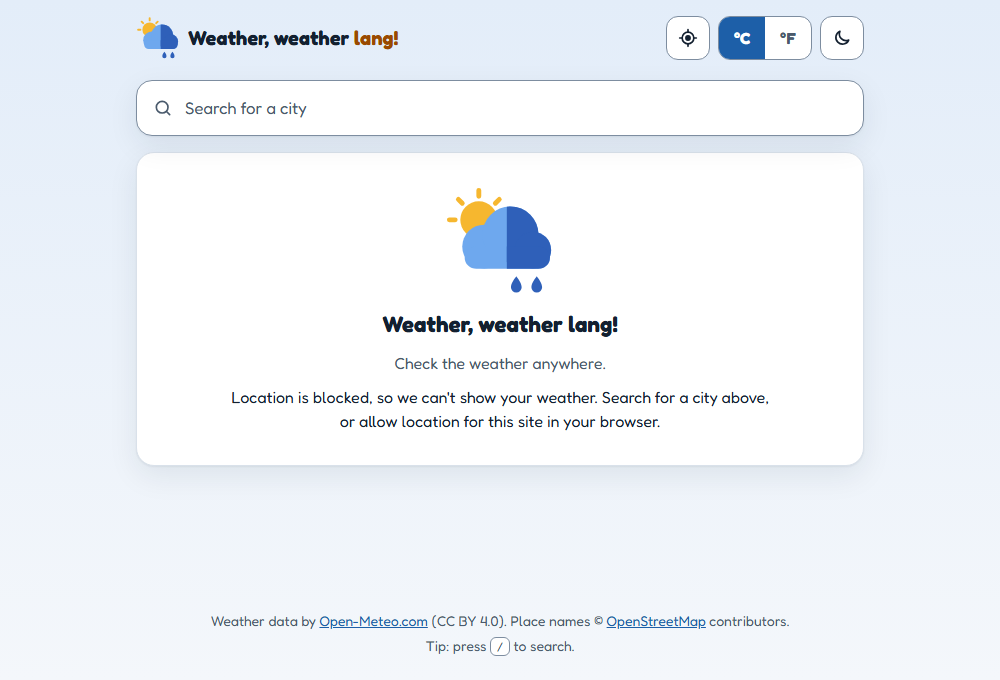
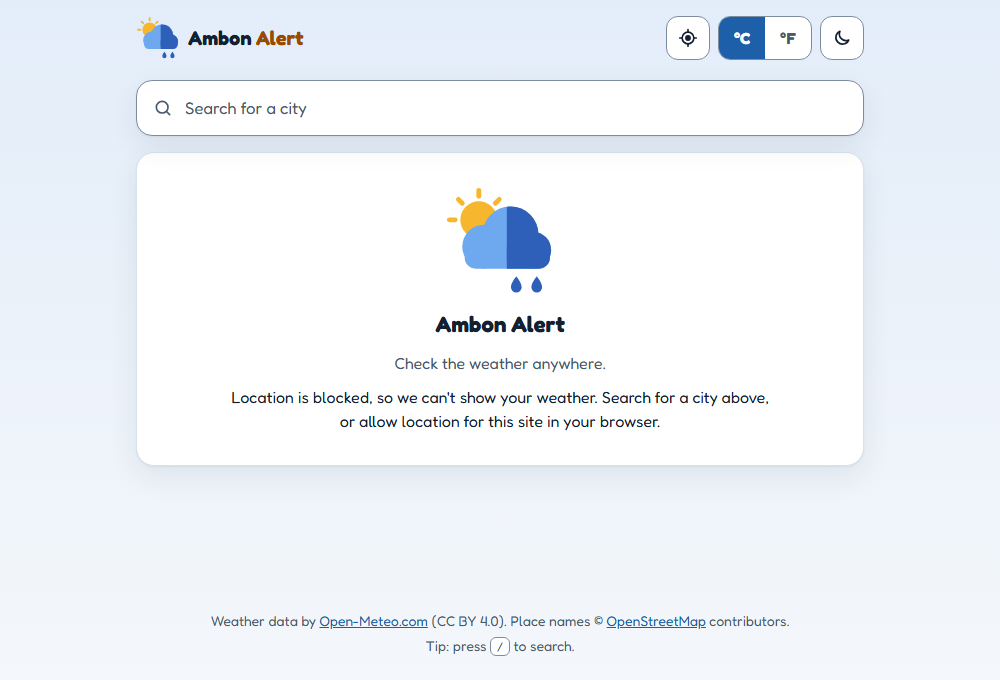
Rename the app to "Ambon Alert"
- New name in the header, page titles, app.js, the manifest (name and
  short_name) and the docs; "Alert" uses the sun-orange highlight
- The name fits on one line, so phones no longer split it in two
- Logo original renamed to docs/brand/ambon-alert-logo.png
- Keep the place's clock time ("12:07 AM") on one line on phones
- Tests and screenshots updated

Changed region(s): [[0.186, 0.0309, 0.403, 0.0926], [0.372, 0.4632, 0.62, 0.4941]]

diff --git a/weather/static/style.css b/weather/static/style.css
@@ -1,4 +1,4 @@
-/* "Weather, weather lang!" styles. The font is Fredoka (loaded in base.html).
+/* "Ambon Alert" styles. The font is Fredoka (loaded in base.html).
    Colours live in variables on :root. The dark theme swaps the variables:
    it follows the system setting, unless the visitor picked a theme with the
    toggle (saved as data-theme on <html>).
@@ -20,7 +20,7 @@
   --focus: #d97706;
   --error: #b42318;
   --star: #b45309;
-  --highlight: #9a4a00;       /* the sun's orange, dark enough for text: "lang!" in the name */
+  --highlight: #9a4a00;       /* the sun's orange, dark enough for text: "Alert" in the name */
   --shimmer: rgb(255 255 255 / 70%);
   --shadow: 0 1px 2px rgb(19 32 48 / 6%), 0 10px 30px rgb(19 32 48 / 8%);
   --radius: 18px;
@@ -205,6 +205,7 @@ a { color: var(--accent); }
   text-decoration: none;
 }
 .brand-logo { display: block; flex: none; }
+.brand-name { white-space: nowrap; }
 .brand-name em { font-style: normal; color: var(--highlight); }
 
 .controls { display: flex; align-items: center; gap: 8px; }
@@ -495,7 +496,7 @@ button { font: inherit; }
 .current-head { display: flex; align-items: flex-start; justify-content: space-between; gap: 12px; }
 .current-head h1 { font-size: 1.75rem; line-height: 1.2; letter-spacing: -0.01em; }
 .place-clock { margin-top: 2px; color: var(--muted); }
-.place-clock strong { color: var(--text); }
+.place-clock strong { color: var(--text); white-space: nowrap; } /* keep "12:07 AM" together */
 
 .here-badge {
   display: inline-flex;
@@ -648,9 +649,7 @@ button { font: inherit; }
 /* ---------- Phones ---------- */
 
 @media (max-width: 520px) {
-  /* The name goes on two lines ("Weather," / "weather lang!") to leave room for the buttons. */
-  .brand { gap: 6px; font-size: 0.95rem; }
-  .brand-name > span { display: block; }
+  .brand { gap: 6px; font-size: 1.1rem; }
   .brand-logo { width: 38px; height: 38px; }
   .controls { gap: 6px; }
   .container { padding-top: 14px; gap: 12px; }

diff --git a/weather/templates/base.html b/weather/templates/base.html
@@ -4,8 +4,8 @@
 <head>
   <meta charset="utf-8">
   <meta name="viewport" content="width=device-width, initial-scale=1">
-  <title>{% block title %}Weather, weather lang! · Current weather and 7-day forecast{% endblock %}</title>
-  <meta name="description" content="Weather, weather lang! Current weather, the next 24 hours and a 7-day forecast for any city. Data from Open-Meteo.">
+  <title>{% block title %}Ambon Alert · Current weather and 7-day forecast{% endblock %}</title>
+  <meta name="description" content="Ambon Alert Current weather, the next 24 hours and a 7-day forecast for any city. Data from Open-Meteo.">
   {# The colour of the browser bar on phones. app.js updates it when the theme button is used. #}
   <meta name="theme-color" content="#eef3f9" media="(prefers-color-scheme: light)">
   <meta name="theme-color" content="#0c141e" media="(prefers-color-scheme: dark)">
@@ -36,7 +36,7 @@
   <header class="site-header">
     <a class="brand" href="{{ url_for('weather.index') }}">
       <img class="brand-logo" src="{{ url_for('static', filename='icons/logo.svg') }}" width="44" height="44" alt="">
-      <span class="brand-name"><span>Weather,</span> <span>weather <em>lang!</em></span></span>
+      <span class="brand-name">Ambon <em>Alert</em></span>
     </a>
     {% block controls %}{% endblock %}
   </header>

diff --git a/weather/templates/index.html b/weather/templates/index.html
@@ -62,7 +62,7 @@
      that is going, and stays if the location can't be used. #}
   <section class="card message-card" id="welcome" hidden>
     <img src="{{ url_for('static', filename='icons/logo.svg') }}" width="112" height="112" alt="">
-    <h1>Weather, weather lang!</h1>
+    <h1>Ambon Alert</h1>
     <p class="muted">Check the weather anywhere.</p>
     <p class="welcome-status"><span class="spinner" id="welcome-spinner" hidden></span><span id="welcome-status">Search for a city above.</span></p>
     <button type="button" class="button" id="welcome-locate" hidden>{{ icon("i-locate", size=18) }} Use my location</button>

diff --git a/weather/static/app.js b/weather/static/app.js
@@ -9,7 +9,7 @@
 (function () {
   "use strict";
 
-  const APP_NAME = "Weather, weather lang!";
+  const APP_NAME = "Ambon Alert";
   const SEARCH_DELAY_MS = 300; // wait for a pause in typing, so we don't search on every key
   const REQUEST_TIMEOUT_MS = 15000; // a bit longer than the server's own wait for Open-Meteo
   const PLACE_TIMEOUT_MS = 6000; // a town name is nice to have; don't hold the weather back for long

diff --git a/weather/templates/error.html b/weather/templates/error.html
@@ -1,5 +1,5 @@
 {% extends "base.html" %}
-{% block title %}{{ code }} · Weather, weather lang!{% endblock %}
+{% block title %}{{ code }} · Ambon Alert{% endblock %}
 {% block content %}
   <section class="card message-card">
     {{ icon("wx-fog", class="wx-icon wx-big", size=96) }}

diff --git a/tests/test_views.py b/tests/test_views.py
@@ -23,7 +23,7 @@ def test_home_page(client):
     response = client.get("/")
     assert response.status_code == 200
     html = response.get_data(as_text=True)
-    assert "<title>Weather" in html
+    assert "<title>Ambon Alert" in html
     assert 'role="combobox"' in html
     # Every state app.js switches between is on the page.
     for view in ("welcome", "skeleton", "error-card", "weather"):
@@ -36,8 +36,8 @@ def test_home_page(client):
 
 def test_brand_and_font(client):
     html = client.get("/").get_data(as_text=True)
-    assert "<title>Weather, weather lang!" in html
-    assert '<span>Weather,</span> <span>weather <em>lang!</em></span>' in html
+    assert "<title>Ambon Alert" in html
+    assert '<span class="brand-name">Ambon <em>Alert</em></span>' in html
     assert "family=Fredoka" in html
 
 
@@ -45,7 +45,7 @@ def test_app_manifest_and_icons(client):
     response = client.get("/static/site.webmanifest")
     assert response.content_type.startswith("application/manifest+json")
     manifest = json.loads(response.get_data(as_text=True))
-    assert manifest["name"] == "Weather, weather lang!"
+    assert manifest["name"] == "Ambon Alert"
     for icon in manifest["icons"]:
         assert client.get("/static/" + icon["src"]).status_code == 200, icon["src"]
     html = client.get("/").get_data(as_text=True)

diff --git a/weather/__init__.py b/weather/__init__.py
@@ -1,4 +1,4 @@
-"""Weather, weather lang! A weather app: current weather and forecasts from Open-Meteo.
+"""Ambon Alert A weather app: current weather and forecasts from Open-Meteo.
 
 Flask builds the app inside create_app() (the "app factory" pattern).
 Tests call it with their own settings, so each test gets a fresh app.

diff --git a/AGENTS.md b/AGENTS.md
@@ -4,7 +4,7 @@ This file guides AI coding agents (Claude Code, Codex, Cursor, Copilot and other
 
 ## Overview
 
-**Weather, weather lang!**, a weather web app in Python (Flask, no database, no login). The repo and the Python package are still called `weather_app` and `weather`. It shows the current weather and forecasts from [Open-Meteo](https://open-meteo.com/en/docs), which is free and needs no API key. Town names for the visitor's location come from OpenStreetMap's [Nominatim](https://nominatim.org/release-docs/latest/api/Reverse/), because Open-Meteo has no reverse geocoding. It is a learning project for HTTP, JSON, API integration and loading/error states. Keep the code readable for a learner: short comments that explain *why*, and no extra libraries unless the owner asks for them. Write the README in simple (A1-level) English.
+**Ambon Alert**, a weather web app in Python (Flask, no database, no login). The repo and the Python package are still called `weather_app` and `weather`. It shows the current weather and forecasts from [Open-Meteo](https://open-meteo.com/en/docs), which is free and needs no API key. Town names for the visitor's location come from OpenStreetMap's [Nominatim](https://nominatim.org/release-docs/latest/api/Reverse/), because Open-Meteo has no reverse geocoding. It is a learning project for HTTP, JSON, API integration and loading/error states. Keep the code readable for a learner: short comments that explain *why*, and no extra libraries unless the owner asks for them. Write the README in simple (A1-level) English.
 
 Python 3.13 is at `%LOCALAPPDATA%\Programs\Python\Python313\python.exe`. Use the virtual environment:
 
@@ -47,7 +47,7 @@ The browser calls only our own `/api/...` routes; Flask calls Open-Meteo.
 
 ## Conventions
 
-- Brand: the name is "Weather, weather lang!" in `base.html` (header: `Weather,` / `weather <em>lang!</em>`, two lines on phones), the `<title>`s, `APP_NAME` in `app.js` and `static/site.webmanifest` (`short_name` "Weather lang"); keep them in sync. `lang!` uses `--highlight` (sun orange, darkened for 4.5:1). The logo is `static/icons/logo.svg`, a vector redraw of the owner's original `docs/brand/weather-weather-lang-logo.png`; the header, welcome card and favicon use it as an `<img>`. `icon-32.png`, `apple-touch-icon.png` (180) and `icon-192/512.png` (white tile, 14% padding for maskable) are rendered from it. Re-render them when the logo changes. `test_app_manifest_and_icons` checks that every linked icon exists.
+- Brand: the name is "Ambon Alert" in `base.html` (header: `Ambon <em>Alert</em>`, one line, also on phones), the `<title>`s, `APP_NAME` in `app.js` and `static/site.webmanifest` (`name` and `short_name`); keep them in sync. `Alert` uses `--highlight` (sun orange, darkened for 4.5:1). The logo is `static/icons/logo.svg`, a vector redraw of the owner's original `docs/brand/ambon-alert-logo.png`; the header, welcome card and favicon use it as an `<img>`. `icon-32.png`, `apple-touch-icon.png` (180) and `icon-192/512.png` (white tile, 14% padding for maskable) are rendered from it. Re-render them when the logo changes. `test_app_manifest_and_icons` checks that every linked icon exists.
 - Font: Fredoka from Google Fonts (`wght@400..700`, linked in `base.html`), set on `body`. Everything inherits it (`button { font: inherit }`). 700 is its boldest weight, so don't use 800.
 - Styling: `static/style.css`, colours as CSS variables on `:root`. Dark mode redefines them under `prefers-color-scheme: dark` (unless `data-theme="light"`) and under `[data-theme="dark"]`; change both blocks together. The phone breakpoint is 520px.
 - Accessibility: text colours ≥ 4.5:1 and `--control-border` ≥ 3:1 against the card in both themes; text over the page gradient (header, footer) must also reach 4.5:1 on every `--sky-*`. Touch targets ≥ 44px on phones. Every icon-only button has an `aria-label`. `#announcer` (aria-live) says what changed. Things that are `position: absolute` (like `.visually-hidden` labels) inside a scrolling row need a positioned parent, or the page scrolls sideways on phones.

diff --git a/README.md b/README.md
@@ -1,6 +1,6 @@
 <img src="weather/static/icons/logo.svg" alt="" width="96">
 
-# Weather, weather lang!
+# Ambon Alert
 
 A weather website. Type a city. You see the weather now, the next 24 hours and the next 7 days.
 
